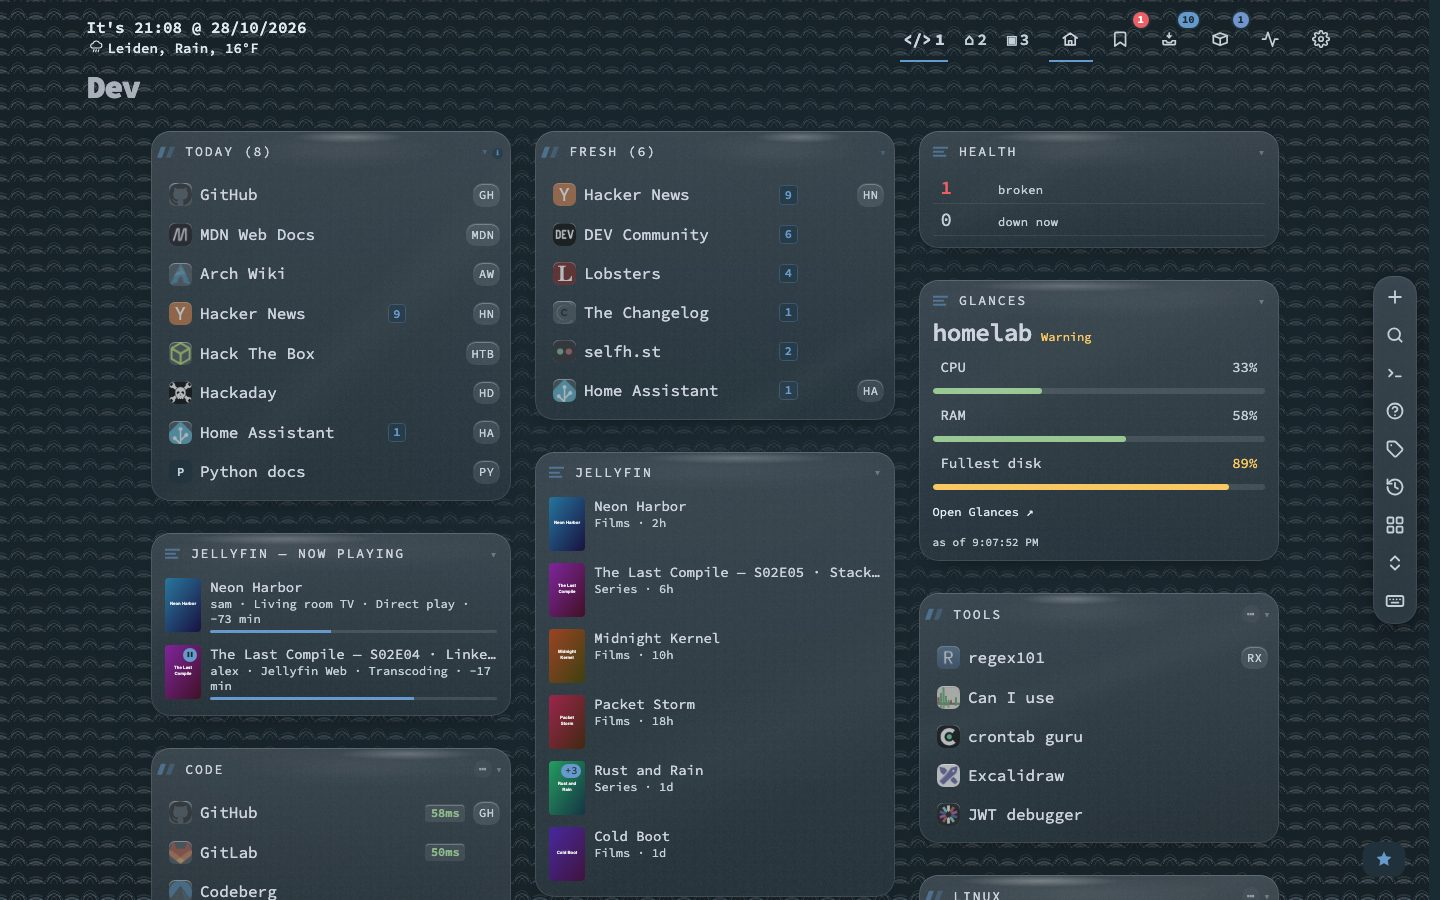
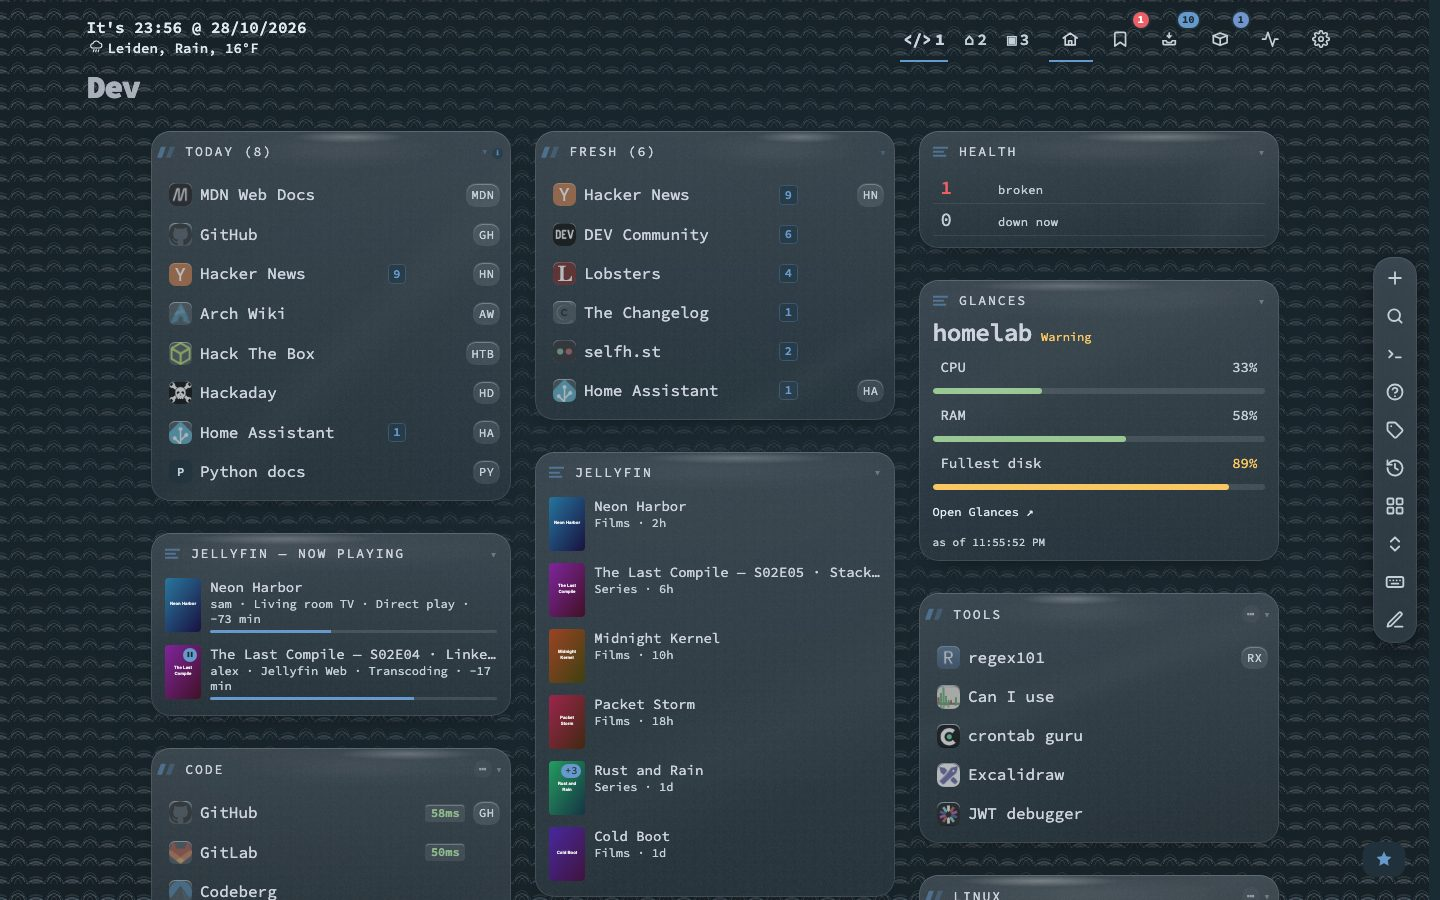
Manual screenshots for edit mode, Usually now, result actions and the checkup

diff --git a/tests/manual-screenshots-v1-22-4.spec.js b/tests/manual-screenshots-v1-22-4.spec.js
@@ -1,0 +1,104 @@
+// @ts-check
+/*
+ * The MANUAL.md screenshots of the v1.22.4 features -- edit mode, the search
+ * panel's "Usually now" and result actions, the checkup and the weekly digest
+ * window -- over the demo that nextDash seeds itself (scripts/make-manual-seed.sh):
+ *
+ *   MANUAL_SHOTS=1 NEXTDASH_DATA_DIR=<seed> PW_WORKERS=8 \
+ *     npx playwright test tests/manual-screenshots-v1-22-4.spec.js
+ *
+ * Same harness as manual-screenshots.spec.js.
+ */
+const {
+    test,
+    prepare,
+    settle,
+    shot,
+    snap,
+    crop,
+    openDashboard,
+    DESKTOP,
+} = require('./helpers/manual-shot-kit');
+
+test.skip(!process.env.MANUAL_SHOTS, 'manual screenshots run on purpose only');
+test.describe.configure({ mode: 'parallel' });
+test.use({ viewport: DESKTOP, reducedMotion: 'reduce' });
+test.setTimeout(90_000);
+
+// A stored category: the first blocks on the page are collections (Today, Fresh), which have no panel of their own.
+const firstCategory = (page) => page.locator('#dashboard-layout .category[data-category-id="code"] .category-title').first();
+
+test.describe('edit mode', () => {
+    test('04 edit mode: a category chosen', async ({ page }) => {
+        await prepare(page);
+        await openDashboard(page);
+        await page.keyboard.press('Shift+M');
+        await page.locator('body[data-edit-mode="on"]').waitFor();
+        await firstCategory(page).click();
+        await page.locator('#edit-mode-panel [data-edit-section="category"]').waitFor();
+        await settle(page);
+        await page.waitForTimeout(600);
+        await shot(page, '04-edit-mode.jpg');
+    });
+
+    test('04 edit mode: a widget sheet over the dashboard', async ({ page }) => {
+        await prepare(page);
+        await openDashboard(page);
+        await page.keyboard.press('Shift+M');
+        await page.locator('body[data-edit-mode="on"]').waitFor();
+        await page.locator('#dashboard-layout .dashboard-widget .dashboard-widget-title, #dashboard-layout .dashboard-widget .category-title').first().click();
+        await page.locator('#edit-mode-panel [data-edit-section="widget"]').waitFor();
+        await page.locator('#edit-mode-panel [data-edit-action="widget-settings"], #edit-mode-panel button', { hasText: /Settings/ }).first().click();
+        await page.locator('.config-widget-sheet').waitFor();
+        await page.waitForTimeout(800);
+        await crop(page, page.locator('.config-widget-sheet'), '04-edit-mode-widget-sheet.jpg', 24);
+    });
+});
+
+test.describe('search', () => {
+    test('08 search: usually now', async ({ page }) => {
+        await prepare(page);
+        await openDashboard(page);
+        // The group is worked out from the time of day the panel opens at: a weekday morning, when the seed's rhythm has its opens.
+        await page.clock.setFixedTime(new Date('2026-10-27T10:30:00'));
+        await page.keyboard.press('>');
+        await page.locator('#shortcut-search .search-container').waitFor();
+        await page.waitForTimeout(900);
+        await crop(page, page.locator('#shortcut-search .search-container'), '08-search-usually-now.jpg');
+    });
+
+    test('08 search: the actions of a result', async ({ page }) => {
+        await prepare(page);
+        await openDashboard(page);
+        await page.clock.setFixedTime(new Date('2026-10-27T10:30:00'));
+        await page.keyboard.press('>');
+        await page.locator('#shortcut-search .search-container').waitFor();
+        await page.waitForTimeout(900);
+        // Down to the first bookmark row (the "Usually now" group), then Right unfolds its actions.
+        for (let i = 0; i < 12; i += 1) {
+            const type = await page.evaluate(() => {
+                const s = window.dashboardInstance.searchComponent;
+                return s.selectableMatches[s.selectedMatchIndex]?.type;
+            });
+            if (type === 'bookmark') break;
+            await page.keyboard.press('ArrowDown');
+        }
+        await page.keyboard.press('ArrowRight');
+        await page.locator('.search-row-actions').first().waitFor();
+        await page.waitForTimeout(500);
+        await crop(page, page.locator('#shortcut-search .search-container'), '08-search-actions.jpg');
+    });
+});
+
+test.describe('tidying up', () => {
+    test('12 checkup', async ({ page }) => {
+        await prepare(page);
+        await openDashboard(page);
+        await page.keyboard.press(':');
+        await page.keyboard.type('checkup');
+        await page.keyboard.press('Enter');
+        await page.locator('.checkup-modal, [data-checkup], .checkup').first().waitFor({ timeout: 15_000 });
+        await page.waitForTimeout(900);
+        await crop(page, page.locator('#app-modal.show, .modal.show').first(), '12-checkup.jpg', 24);
+    });
+});

diff --git a/MANUAL.md b/MANUAL.md
@@ -985,6 +985,12 @@ Edit mode changes the dashboard itself without a trip to Config: names, icons, w
 
 A category or widget that is deleted somewhere else clears the panel, and the panel says so.
 
+<p align="center"><img src="screenshots/manual.md/04-edit-mode.jpg" alt="The dashboard in edit mode: a bar at the top, a dashed outline on every block, the Code category chosen and its panel at the right with name, icon, width, view and sorting" width="860"></p>
+<p align="center"><sub>Edit mode with the Code category chosen: its panel opens at the right.</sub></p>
+
+<p align="center"><img src="screenshots/manual.md/04-edit-mode-widget-sheet.jpg" alt="The settings sheet of a widget opened over the dashboard from the edit panel: Connection, Display and Advanced" width="700"></p>
+<p align="center"><sub><b>Settings…</b> on a widget opens its sheet over the dashboard.</sub></p>
+
 <a id="the-grid"></a>
 
 ### 🗂 The grid
@@ -1423,7 +1429,13 @@ Links still waiting in the inbox that match a name search appear in their own gr
 
 With the panel empty, the first group is **Usually now**: up to three bookmarks you tend to open around this time of day, on the same kind of day (weekday or weekend), going by the last eight weeks. It needs at least three opens in that window per bookmark, only appears when three qualify, is worked out in your browser from your own open history, and stays fixed while the panel is open. Under it, your recent and saved searches show as chips (`←`/`→` and `Enter`).
 
-**Actions on a result.** `→` on a bookmark result unfolds its actions under the row: open, open in a new tab, edit, copy the address, health and move to a page. `↑`/`↓` move through them, `Enter` runs one, `←` or `Esc` folds them. On a web result `→` still shows its text beside the list.
+<p align="center"><img src="screenshots/manual.md/08-search-usually-now.jpg" alt="The empty search panel with a Usually now group of three bookmarks above Commands, Filters and Finders" width="860"></p>
+<p align="center"><sub>Usually now: three bookmarks you tend to open around this time of day.</sub></p>
+
+**Actions on a result.** `→` on a bookmark result unfolds its actions under the row: open, open in a new tab, edit, copy the address, show in the list and move to a page. `↑`/`↓` move through them, `Enter` runs one, `←` or `Esc` folds them. On a web result `→` still shows its text beside the list.
+
+<p align="center"><img src="screenshots/manual.md/08-search-actions.jpg" alt="A bookmark result in the search panel with its actions unfolded: Open, Open in new tab, Copy URL, Edit, Show in list and Move to" width="860"></p>
+<p align="center"><sub>Right arrow on a result unfolds its actions under the row.</sub></p>
 
 **The keyboard tour.** Until you have seen it, the empty panel also lists *Take the keyboard tour* under a **Keyboard** heading (open from the start in Hypr mode, a closed group otherwise). It never opens by itself. Four steps: just start typing, commands start with a colon, finders search the web for you, and three more single keys — `/`, `*` and `!`. `:tour keyboard` plays it any time, and so does the Tour list in Behavior → Privacy & sync → Onboarding.
 
@@ -2247,6 +2259,9 @@ On the day the digest comes out it goes first, and the daily review card ([§4](
 <a id="the-checkup"></a>
 
 **The checkup.** One guided round through what is worth tidying up, on top of the Bookmarks view: type `:checkup`, pick **Checkup** in the Bookmarks view's menu, or press **Start the checkup** in the weekly digest. The steps are dead links, duplicates, bookmarks never opened or gone stale, categories and pages with nothing in them (hidden and snoozed bookmarks count as present, and a page with only widgets is not empty), and widgets that show an error or no data right now. A step with nothing to do is skipped, every step uses the actions you already know (delete, merge, move, edit) with their confirmation and undo, and nothing is removed before you have seen it.
+
+<p align="center"><img src="screenshots/manual.md/12-checkup.jpg" alt="The checkup window listing three steps: broken links, doubled bookmarks and never opened, each with an Open in Bookmarks button" width="760"></p>
+<p align="center"><sub>The checkup lists the steps that have something to do.</sub></p>
 
 <a id="125-maintenance-windows"></a>
 
